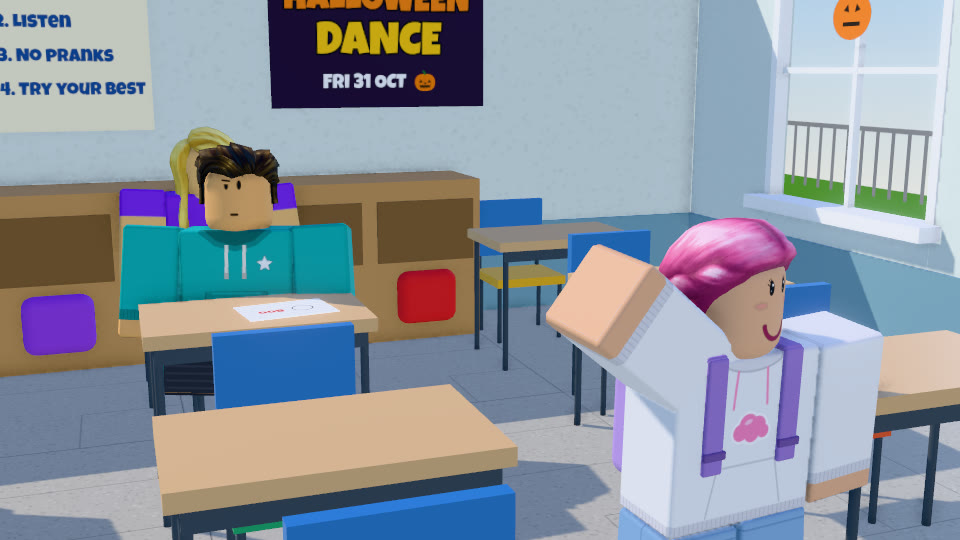
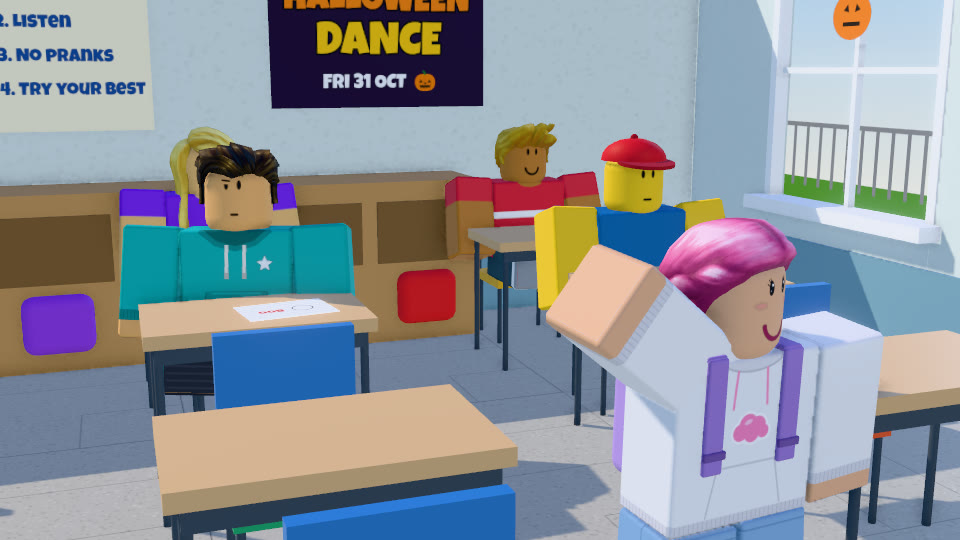
ch02: gate fixes (ladder, steal, crawl, teddy, slump, bite, dim hall, Max cut, extras)

Changed region(s): [[0.4375, 0.2074, 0.7812, 0.5926], [0.0, 0.9481, 0.125, 1.0], [0.9375, 0.7704, 1.0, 0.8296]]

diff --git a/roblox-shorts-studio/projects/i-secretly-lived-in-my-enemys-house/web/ch02.js b/roblox-shorts-studio/projects/i-secretly-lived-in-my-enemys-house/web/ch02.js
@@ -68,7 +68,7 @@ const M = {
   porch: () => K.mark('exterior', 'porch_step'),
   deskMax: () => mk('classroom', 'desk_max'),
   maxSide: () => K.mark('classroom', 'max_desk_side'),
-  extra: (i) => mk('classroom', ['desk_extra_2', 'desk_extra_3', 'desk_extra_4'][i]),
+  extra: (i) => mk('classroom', ['desk_r3c1', 'desk_r4c1', 'desk_r4c2', 'desk_r2c3'][i]),
 };
 
 // ---------- setup ----------
@@ -95,7 +95,7 @@ export const T = {
   famIn: () => at(3, 0.3),                        // Max shuffles down the stairs, Lily skips behind
   steal: () => endOf(8, 0.08),                    // [+0.8] the hand over the island
   crawl0: () => at(13, 0.5),                      // Skye crawls to the back door during Dad's syrup line
-  out: () => at(14, -0.3),
+  out: () => Math.min(at(14, -0.3), at(13, 0.5) + 1.6),   // cut outside as she reaches the door (hide -> door ~14.3 studs at 5.5/s)
   class: () => at(15, -0.2),
   sitUp: () => endOf(19, 0.08),                   // [+0.6] Max sits up
   bye0: () => endOf(21, -0.35),                   // she heads back to her desk on "Bye!"
@@ -111,7 +111,7 @@ const SHOTS = [
   { at: T.kitchen, id: 'kitchen_wide', set: 'kitchen', light: 'predawn', cam: (s) => K.setCam(s, kc('wide'), { clear: false }) },
   { at: () => at(2, 1.2), id: 'dad_morning', set: 'kitchen', light: 'predawn', cam: (s) => K.camOn(s, C.dad, 'ms', { angle: 0.35, height: 0.8 }) },
   { at: () => at(3, -0.1), id: 'skye_whisper', set: 'kitchen', light: 'predawn', cam: (s) => K.camOn(s, C.skye, 'mcu', { angle: 0.45, height: 0.2 }) },
-  { at: () => at(4, -0.1), id: 'family_in', set: 'kitchen', light: 'predawn', cam: (s) => K.setCam(s, kc('wide'), { clear: false }) },
+  { at: () => at(4, -0.1), id: 'max_walk', set: 'kitchen', light: 'predawn', cam: (s) => K.camOn(s, C.max, 'ms', { angle: 0.4, height: 0.6 }) },
   { at: () => at(4, 2.6), id: 'max_dad', set: 'kitchen', light: 'predawn', cam: (s) => K.setCam(s, kc('island_stools_right'), { clear: false }) },
   { at: () => at(5, -0.1), id: 'dad_pipes', set: 'kitchen', light: 'predawn', cam: (s) => K.camOn(s, C.dad, 'ms', { angle: 0.35, height: 0.8 }) },
   { at: () => at(6, -0.1), id: 'lily_ghost', set: 'kitchen', light: 'predawn', cam: (s) => K.camOn(s, C.lily, 'mcu', { angle: -0.45, height: 0.6, look: V(0, 0.45, 0) }) },
@@ -123,7 +123,7 @@ const SHOTS = [
   { at: () => at(11, -0.1), id: 'max_lily', set: 'kitchen', light: 'predawn', cam: (s) => K.twoShot(s, C.lily, C.max, { framing: 'mcu', bias: 0.6, height: 1.0 }) },
   { at: () => at(12, -0.1), id: 'lily_ghosts', set: 'kitchen', light: 'predawn', cam: (s) => K.twoShot(s, C.lily, C.max, { framing: 'mcu', bias: 0.35, height: 1.0 }) },
   { at: () => at(13, -0.1), id: 'dad_syrup', set: 'kitchen', light: 'predawn', cam: (s) => K.camOn(s, C.dad, 'ms', { angle: -0.5, height: 0.8 }) },
-  { at: T.crawl0, id: 'crawl', set: 'kitchen', light: 'predawn', cam: (s) => K.setCam(s, kc('back_door_wide'), { clear: false }) },
+  { at: T.crawl0, id: 'crawl', set: 'kitchen', light: 'predawn', cam: (s) => K.setCam(s, crawlCam(), { clear: false }) },
   { at: T.out, id: 'back_step', set: 'exterior', light: 'predawn', cam: (s) => K.camOn(s, C.skye, 'mcu', { angle: 0.5 }) },
   { at: T.class, id: 'class_two', set: 'classroom', light: 'school_day', cam: (s) => K.setCam(s, cc('max_desk_two_shot'), { clear: false }) },
   { at: () => at(16, -0.1), id: 'max_haunted', set: 'classroom', light: 'school_day', cam: (s) => K.camOn(s, C.max, 'mcu', { angle: 0.5, height: 0.35 }) },
@@ -171,19 +171,20 @@ function floorSit(actor, m) { poseAt(actor, 'sit_chair', V(m.pos.x, m.pos.y + 0.
 // hands and knees; the crawl cycle is driven by the distance covered (phase = distance / STRIDE)
 function crawlPose(phase) {
   const c = Math.sin(phase * PI * 2);
-  return { Torso: [72, 0, 0], Head: [-62, 0, 0], 'Arm.L': [-70 + 18 * c, 0, -4], 'Arm.R': [-70 - 18 * c, 0, 4], 'Leg.L': [78 - 14 * c, 0, -3], 'Leg.R': [78 + 14 * c, 0, 3], drop: 1.25 };
+  // legs hang from the root (not the torso): swung back 45 deg so the hips stay up on the knees; arms straight down to the floor
+  return { Torso: [70, 0, 0], Head: [-58, 0, 0], 'Arm.L': [-70 + 15 * c, 0, -4], 'Arm.R': [-70 - 15 * c, 0, 4], 'Leg.L': [45 - 12 * c, 0, -3], 'Leg.R': [45 + 12 * c, 0, 3], drop: 0.59 };
 }
 // ---------- update ----------
 export function update(t, stage) {
   const sh = shotAt(t);
   const set = K.showSet(sh.set);
-  K.applyLight(stage, sh.light, sh.set === 'kitchen' ? {} : { set });   // the kitchen's practicals follow its own setState
+  K.applyLight(stage, sh.light, sh.set === 'kitchen' ? {} : { set, practicals: sh.set === 'hallway' ? { ceiling_light: false } : {} });   // the hall stays dark: nobody is up yet   // the kitchen's practicals follow its own setState
   const idle = K.holdClock(t, L, [[T.kitchen(), T.duck0() + 1.8], [T.famIn(), at(4, 3)], [T.steal(), at(9)], [T.crawl0(), at(14)], [T.bye0(), meta.seconds]]);
   for (const p of Object.values(P)) p.visible = false;
 
   if (sh.set === 'kitchen') K.setLine(C.dad, C.max, 1); else if (sh.set === 'classroom') K.setLine(C.skye, C.max, -1); else K.clearLine();
   if (sh.set === 'hallway') hallway(t, idle);
-  else if (sh.set === 'kitchen') kitchen(t, idle);
+  else if (sh.set === 'kitchen') { stage0 = stage; kitchen(t, idle); }
   else if (sh.set === 'exterior') outside(t, idle);
   else classroom(t, idle);
 
@@ -195,7 +196,7 @@ export function update(t, stage) {
 // ---------- hallway: down the attic ladder, then creeping to the stairs ----------
 function ladderCam() {
   const p = K.getSet('hallway').ladderPoint(0.25).pos;
-  return { pos: p.clone().add(V(2.2, 3.0, 13.5)), target: p.clone().add(V(0.3, 6.2, 0)), fov: 46 };
+  return { pos: p.clone().add(V(2.2, 3.4, 13.5)), target: p.clone().add(V(0.3, 6.6, 0)), fov: 34 };
 }
 // ahead of her, from the stairs end of the hall (open +z side), so her face reads as she creeps to the stairs
 function creepCam() {
@@ -210,7 +211,7 @@ function hallway(t, idle) {
     const u = lerp(0.45, 0, smooth(inv(0, T.ladderEnd(), t))), lp = hs.ladderPoint(u);
     const climbed = hs.ladderPoint(0.45).pos.y - lp.pos.y;
     const g = K.gait('climb', climbed / 1.6), c = Math.sin(climbed / 1.6 * PI * 2);
-    poseAt(C.skye, { ...g, 'Arm.L': [-92 + 16 * c, 0, -8], 'Arm.R': [-92 - 16 * c, 0, 8], Head: [12, 30, 0] }, lp.pos, lp.heading + 0.85);   // hands on the rails below her face   // cheated 3/4 to camera, looking down over her shoulder
+    poseAt(C.skye, { ...g, 'Arm.L': [-48 + 8 * c, 0, -16], 'Arm.R': [-48 - 8 * c, 0, 16], Head: [14, 62, 0] }, lp.pos, lp.heading + 0.45);   // hands on the side rails at chest height, face turned 3/4 over her shoulder   // cheated 3/4 to camera, looking down over her shoulder
   } else {
     const foot = K.mark('hallway', 'ladder_foot'), top = M.stairsTop();
     const m = travel(foot.pos, top.pos, T.ladderEnd() + 0.35, t, 6);
@@ -225,7 +226,9 @@ function hallway(t, idle) {
 // Layout (sets/kitchen.js): camera side +z; the stove at the back, the stools on the island's back side facing +z,
 // Skye hides on the front side; the stairs come down the right wall, the back door beside their foot.
 let KS = '';
-function stealCam() { const o = K.SET_ORIGIN.kitchen; return { pos: o.clone().add(V(3.4, 5.6, -1.4)), target: o.clone().add(V(0.5, 3.7, 1.4)), fov: 40 }; }
+function stealCam() { const o = K.SET_ORIGIN.kitchen; return { pos: o.clone().add(V(7.8, 3.4, 5.0)), target: o.clone().add(V(0.4, 3.9, 1.6)), fov: 40 }; }
+const STEAL_AT = () => V(0.5, 0, 3.05).add(K.SET_ORIGIN.kitchen);   // kneeling side-on to the island under the stack, facing +x
+function crawlCam() { const o = K.SET_ORIGIN.kitchen, h = K.headPos(C.skye); return { pos: o.clone().add(V(10.0, 3.4, 13.0)), target: h.clone().add(V(0, -0.6, 0)), fov: 34 }; }   // in front of her path to the door: she crawls toward camera, face 3/4   // from beside the door, she crawls toward camera
 function kitchenState(st) { const k = JSON.stringify(st); if (k !== KS) { KS = k; K.getSet('kitchen').setState({ chapter: 2, ...st }); } }
 function stairsGait(actor, kind, t0, t, u0, u1, speed, idle) {
   const ks = K.getSet('kitchen'), a = ks.stairsPath(u0).pos, b = ks.stairsPath(u1).pos, len = a.distanceTo(b);
@@ -235,6 +238,7 @@ function stairsGait(actor, kind, t0, t, u0, u1, speed, idle) {
   return { done: u >= 1, end: t0 + len / speed, pos: p.pos };
 }
 let cakeBase = null;
+let stage0 = null;
 function kitchen(t, idle) {
   K.only(C, ['skye', 'max', 'dad', 'lily']);
   K.dress(C.skye, ['skye_hoodie', 'backpack']); K.dress(C.max, 'max_pjs'); K.dress(C.dad, 'dad_apron'); K.dress(C.lily, 'lily_pjs');
@@ -272,6 +276,7 @@ function kitchen(t, idle) {
   K.hold(P.spatula, C.dad, 'R', 'palm', { level: true });
 
   // Max shuffles down the stairs to stool 4, Lily skips behind him to stool 3; they sit
+  K.holdTeddy(C.lily, 'R');
   for (const [who, stool, d, kind, sp] of [['max', M.stoolMax(), 0, 'shuffle', 7], ['lily', M.stoolLily(), 0.7, 'skip', 9]]) {
     const a = C[who], t0 = T.famIn() + d;
     if (t < t0) { a.root.visible = false; continue; }
@@ -283,7 +288,7 @@ function kitchen(t, idle) {
     let h = stool.heading;
     if (t >= at(11) && t < endOf(12)) h += who === 'max' ? -0.55 : 0.5;                              // Max and Lily turn to each other
     sitOn(a, stool, 'sit_chair', m.arrive, t, behind, 0.35, h);
-    if (who === 'max' && said(8)) K.gesture(a, 'eye_wipe', 'L', smooth(inv(at(8), at(8, 0.3), t)));   // rubs his eye
+    if (who === 'lily') { K.gesture(a, [-46, 0, -26], 'L', 1); K.gesture(a, [-42, 0, -26], 'R', 1); K.holdTeddy(a, 'hug'); }
     if (who === 'lily' && t >= at(12) && t < endOf(12)) a.root.position.y += 0.1 * Math.abs(Math.sin((t - at(12)) * 7));
   }
 
@@ -304,18 +309,23 @@ function kitchen(t, idle) {
   } else if (t < T.crawl0()) {
     if (t >= T.steal() && t < T.steal() + 1.3) {
       // turned to the island, crouched, one arm up over the counter to the stack
-      const u = inv(T.steal(), T.steal() + 0.3, t) - inv(T.steal() + 0.75, T.steal() + 1.1, t);
-      poseAt(C.skye, 'crouch', reach.pos, reach.heading);
-      K.gesture(C.skye, 'reach_up', 'R', u);
-    } else { floorSit(C.skye, hide); if (t >= T.slide()) K.gesture(C.skye, 'hold_out', 'R', 0.55); }   // the pancake held up in front of her
-    if (t >= T.slide()) K.hold(P.pancake, C.skye, 'R');
+      const u = smooth(inv(T.steal(), T.steal() + 0.3, t)) - smooth(inv(T.slide() + 0.35, T.slide() + 0.65, t));
+      poseAt(C.skye, { ...K.POSES.kneel, Head: [-6, -40, 0] }, STEAL_AT(), PI / 2 - 0.35);   // cheated toward camera, head turned to it
+      K.gesture(C.skye, [-28, 0, 150], 'L', u);   // R-format angles (mirrored for L): raised sideways, up and over the island edge
+    } else { floorSit(C.skye, hide); if (t >= T.slide()) K.gesture(C.skye, 'hold_out', 'L', 0.55); }   // the pancake held up in front of her
+    if (t >= T.slide()) {
+      // the top pancake slides off the stack toward her, then she has it in her left hand
+      const v = smooth(inv(T.slide(), T.slide() + 0.35, t)), top = ks.anchors.pancakeStackTop();
+      K.hold(P.pancake, C.skye, 'L');
+      if (v < 1) { const hand = V(); P.pancake.getWorldPosition(hand); stage0.scene.attach(P.pancake); P.pancake.position.copy(top.clone().lerp(hand, v)); P.pancake.rotation.set(0, 0, 0); }
+    }
   } else {
     // crawl: from the hiding spot round to the back door and out
     const door = M.backCrawl(), out = door.pos.clone().add(V(4.5, 0, 0));
     const m1 = travel(hide.pos, door.pos, T.crawl0(), t, 5.5);
     const m = m1.done ? travel(door.pos, out, m1.arrive + 0.1, t, 5.5) : m1;
     poseAt(C.skye, crawlPose((m1.done ? m1.anim + m.anim : m.anim) * 1.6), m.pos, m.heading);
-    K.hold(P.pancake, C.skye, 'R', 'mouth');
+    K.hold(P.pancake, C.skye, 'R', 'mouth'); P.pancake.visible = true;   // (the mouth mode doesn't switch visibility)
   }
 }
 
@@ -325,8 +335,7 @@ function outside(t, idle) {
   K.dress(C.skye, ['skye_hoodie', 'backpack']); 
   stand(C.skye, M.porch(), 0, idle);
   const bite = smooth(inv(wd(14, 2, -0.3), wd(14, 2, -0.05), t));
-  K.gesture(C.skye, 'hold_out', 'R', 1 - bite);
-  K.gesture(C.skye, 'chin_hand', 'R', bite);
+  K.gesture(C.skye, 'chin_hand', 'R', 1); C.skye.bones.Head.rotateX(0.22 * bite);   // pancake up by her chin; she leans into the bite on "Ever"
   K.hold(P.pancake, C.skye, 'R', 'palm', { level: true, rot: [0.7, 0, 0] });   // tipped toward camera so it reads as a pancake
 }
 
@@ -339,7 +348,8 @@ function classroom(t, idle) {
   const dm = M.deskMax(), side = M.maxSide();
   // Max: slumped over his desk until he snaps bolt upright
   const up = smooth(inv(T.sitUp(), T.sitUp() + 0.2, t));
-  K.posture(C.max, K.mixAngles(K.POSES.sit_slump, K.POSES.sit_upright, up));
+  const SLUMP = { 'Leg.L': [-90, 0, -2], 'Leg.R': [-90, 0, 2], Torso: [34, 0, 0], Head: [-22, 0, 0], 'Arm.L': [-70, 0, 8], 'Arm.R': [-70, 0, -8] };   // folded over the desk, chin up so the face reads
+  K.posture(C.max, K.mixAngles(SLUMP, K.POSES.sit_upright, up));
   K.putOn(C.max, { pos: V(dm.pos.x, K.seatY(C.max, dm.seatTop), dm.pos.z), heading: dm.heading - 0.35 * (1 - up) - 0.3 * up }, { sit: true });
   // Skye: leaning on his desk; on "Bye!" she walks back toward her own desk, waving
   if (t < T.bye0()) {
@@ -355,7 +365,6 @@ function classroom(t, idle) {
   }
   // extras: three at their desks
   C.extras.forEach((e, i) => {
-    if (i > 2) { e.root.visible = false; return; }
     const s = M.extra(i);
     K.posture(e, 'sit_chair'); K.putOn(e, { pos: V(s.pos.x, K.seatY(e, s.seatTop), s.pos.z), heading: s.heading }, { sit: true });
     e.setFace(i === 1 ? 'happy' : 'neutral');
